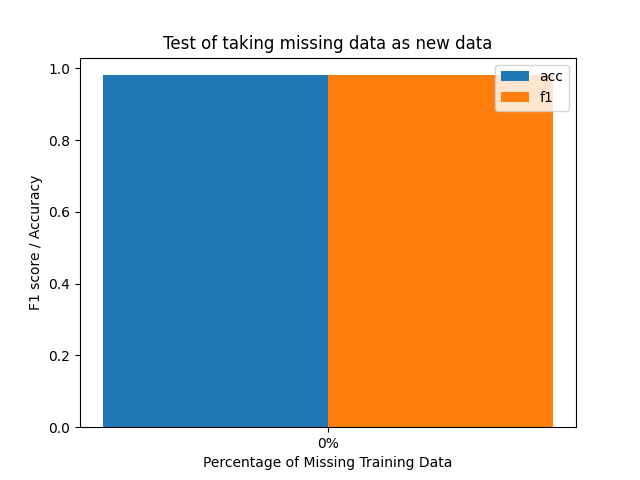
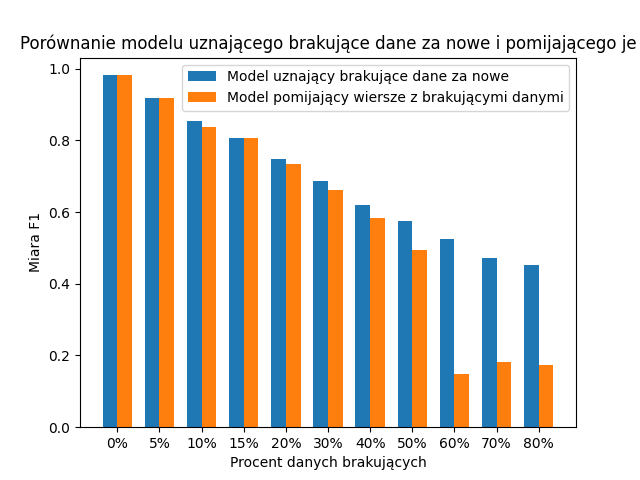
Code for testing

diff --git a/visualization_utils.py b/visualization_utils.py
@@ -158,11 +158,11 @@ def visulate_acc_per_input_method(list_of_acc, labels):
     bar_width = 0.35
     index = np.arange(len(labels))
     fig, ax = plt.subplots()
-    _ = ax.bar(index, method1_acc, bar_width, label='entropy')
+    _ = ax.bar(index, method1_acc, bar_width, label='entropia')
     _ = ax.bar(index + bar_width, method2_acc, bar_width, label='gini')
-    ax.set_xlabel('Percentage of Training Data')
-    ax.set_ylabel('Accuracy')
-    ax.set_title('Comparison of Two Information Gain calculation methods')
+    ax.set_xlabel('Procent danych wziętych do treningu')
+    ax.set_ylabel('Dokładność')
+    ax.set_title('Porównanie dwóch metod obliczania przyrostu informacji')
     ax.set_xticks(index + bar_width / 2)
     ax.set_xticklabels(labels)
     ax.legend()
@@ -184,11 +184,11 @@ def visulate_f1_per_input_method(list_of_f1, labels):
     bar_width = 0.35
     index = np.arange(len(labels))
     fig, ax = plt.subplots()
-    _ = ax.bar(index, method1_f1, bar_width, label='entropy')
+    _ = ax.bar(index, method1_f1, bar_width, label='entropia')
     _ = ax.bar(index + bar_width, method2_f1, bar_width, label='gini')
-    ax.set_xlabel('Percentage of Training Data')
-    ax.set_ylabel('F1 score')
-    ax.set_title('Comparison of Two Information Gain calculation methods')
+    ax.set_xlabel('Procent danych wziętych do treningu')
+    ax.set_ylabel('Miara F1')
+    ax.set_title('Porównanie dwóch metod obliczania przyrostu informacji')
     ax.set_xticks(index + bar_width / 2)
     ax.set_xticklabels(labels)
     ax.legend()
@@ -285,11 +285,11 @@ def visulate_f1_and_acc(list_of_acc, list_of_f1, labels):
     bar_width = 0.35
     index = np.arange(len(labels))
     fig, ax = plt.subplots()
-    _ = ax.bar(index, method1_acc, bar_width, label='acc')
-    _ = ax.bar(index+bar_width, method1_f1, bar_width, label='f1')
-    ax.set_xlabel('Percentage of Missing Training Data')
-    ax.set_ylabel('F1 score / Accuracy')
-    ax.set_title('Test of taking missing data as new data')
+    _ = ax.bar(index, method1_acc, bar_width, label='Model uznający brakujące dane za nowe')
+    _ = ax.bar(index+bar_width, method1_f1, bar_width, label='Model pomijający wiersze z brakującymi danymi')
+    ax.set_xlabel('Procent danych brakujących')
+    ax.set_ylabel('Miara F1')
+    ax.set_title('Porównanie modelu uznającego brakujące dane za nowe i pomijającego je')
     ax.set_xticks(index + bar_width / 2)
     ax.set_xticklabels(labels)
     ax.legend()

diff --git a/h2o_test.py b/h2o_test.py
@@ -1,8 +1,14 @@
 import h2o
 from h2o.estimators import H2ORandomForestEstimator
 from sklearn.model_selection import train_test_split
-from sklearn.metrics import accuracy_score
+from sklearn.metrics import accuracy_score, f1_score
+from visualization_utils import visulate_f1_and_acc
 import pandas as pd
+from dataset_utils import split_random_to_train_and_test_data_diff_methods, get_data
+from decision_tree import DecisionTree
+from utils import ATTRS_NAMES, MAX_DEPTH
+import numpy as np
+from sklearn.metrics import f1_score
 
 h2o.init()
 
@@ -14,7 +20,9 @@ y = df.iloc[:, -1]
 
 list_of_percent_train_data = [0.1, 0.5, 1, 5, 10, 40, 60, 80]
 
-results = []
+f1 = []
+acc = []
+labels_for_percent_of_train_data = []
 
 for percent in list_of_percent_train_data:
     X_train, X_test, y_train, y_test = train_test_split(X, y, test_size=(100-percent)/100)
@@ -40,10 +48,22 @@ for percent in list_of_percent_train_data:
     y_test_str = y_test.astype(str)
 
     accuracy = accuracy_score(y_test_str, y_pred)
+    f1_s = f1_score(y_test_str, y_pred, average='weighted')
     print(f'Percent of training data: {percent}%, Accuracy: {accuracy:.2f}')
-    results.append((percent, accuracy))
+    labels_for_percent_of_train_data.append('%.1f%%' % (percent))
+    f1.append(f1_s)
+    acc.append(accuracy)
 
 h2o.shutdown(prompt=False)
+row_attrs, class_vals = get_data("nursery.data")
 
-for percent, accuracy in results:
-    print(f'Percent of training data: {percent}%, Accuracy: {accuracy:.2f}')
+list_of_f1_2 = []
+unique_values, counts = np.unique(class_vals, return_counts=True)
+default_prediction = unique_values[np.argmax(counts)]
+for i in list_of_percent_train_data:
+    print(i)
+    train_data,test_data,_,_,_,_,_, _ = split_random_to_train_and_test_data_diff_methods(row_attrs, class_vals, i, 0.0)
+    decision_tree = DecisionTree(train_data, MAX_DEPTH, default_prediction, method='entropy', FEM=False)
+    f12 = f1_score(test_data[1], [decision_tree.predict_decision_tree(row) for i, row in enumerate(test_data[0]["attrs_vals"])], average='weighted')
+    list_of_f1_2.append(f12)
+visulate_f1_and_acc(f1, list_of_f1_2, labels_for_percent_of_train_data)

diff --git a/main.py b/main.py
@@ -174,10 +174,11 @@ visualize_tree(tree=decision_tree.tree, attrs_names=ATTRS_NAMES,output_name="tre
 visulate_acc_per_replacement_method(list_of_acc, labels_for_percent_of_train_data)
 visulate_f1_per_replacement_method(list_of_f1, labels_for_percent_of_train_data)
 """
+
 ######
 # compare f1 and acc of diff missing data
 ######
-list_of_percent_train_data = [0]#, 5, 10, 15, 20, 30, 40, 50, 60, 70, 80]
+list_of_percent_train_data = [0, 5, 10, 15, 20, 30, 40, 50, 60, 70, 80]
 labels_for_percent_of_train_data = []
 list_of_acc = []
 list_of_f1 = []
@@ -185,13 +186,15 @@ unique_values, counts = np.unique(class_vals, return_counts=True)
 default_prediction = unique_values[np.argmax(counts)]
 for i in list_of_percent_train_data:
     print(i)
-    _,_,_,_,_,_,train_data, test_data = split_random_to_train_and_test_data_diff_methods(row_attrs, class_vals, 80, i)
-    decision_tree = DecisionTree(train_data, MAX_DEPTH, default_prediction, method='entropy', FEM=True)
-    acc = decision_tree.calculate_acc(test_data)
+    train_data_2,_,_,_,_,_,train_data, test_data = split_random_to_train_and_test_data_diff_methods(row_attrs, class_vals, 80, i)
+    decision_tree = DecisionTree(train_data, MAX_DEPTH, default_prediction, method='entropy', FEM=False)
     f1 = f1_score(test_data[1], [decision_tree.predict_decision_tree(row) for i, row in enumerate(test_data[0]["attrs_vals"])], average='weighted')
     print("f1 score: ", f1)
-    list_of_acc.append(acc)
     labels_for_percent_of_train_data.append('%.0f%%' % (i))
     list_of_f1.append(f1)
+    decision_tree = DecisionTree(train_data_2, MAX_DEPTH, default_prediction, method='entropy', FEM=False)
+    f1 = f1_score(test_data[1], [decision_tree.predict_decision_tree(row) for i, row in enumerate(test_data[0]["attrs_vals"])], average='weighted')
+    print("f1 score: ", f1)
+    list_of_acc.append(f1)
 visulate_f1_and_acc(list_of_acc, list_of_f1, labels_for_percent_of_train_data)
 visualize_tree(tree=decision_tree.tree, attrs_names=ATTRS_NAMES,output_name="tree.png")
